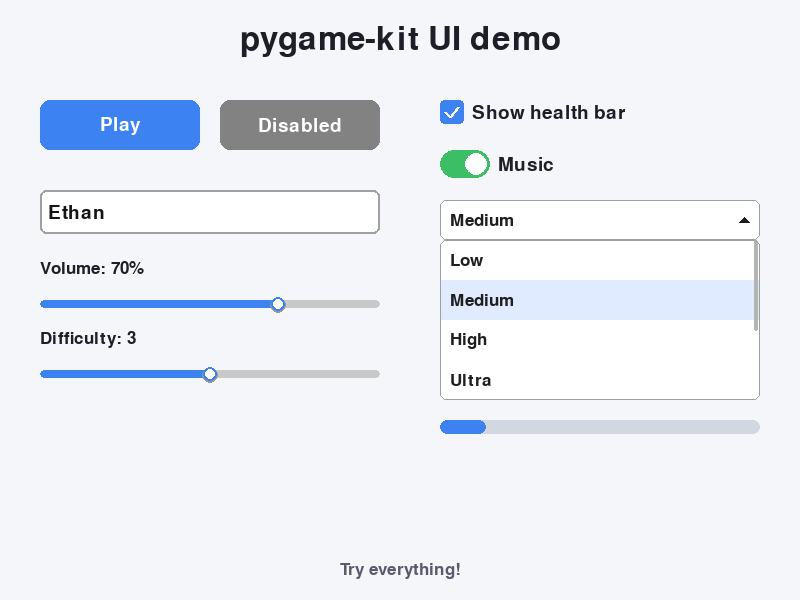
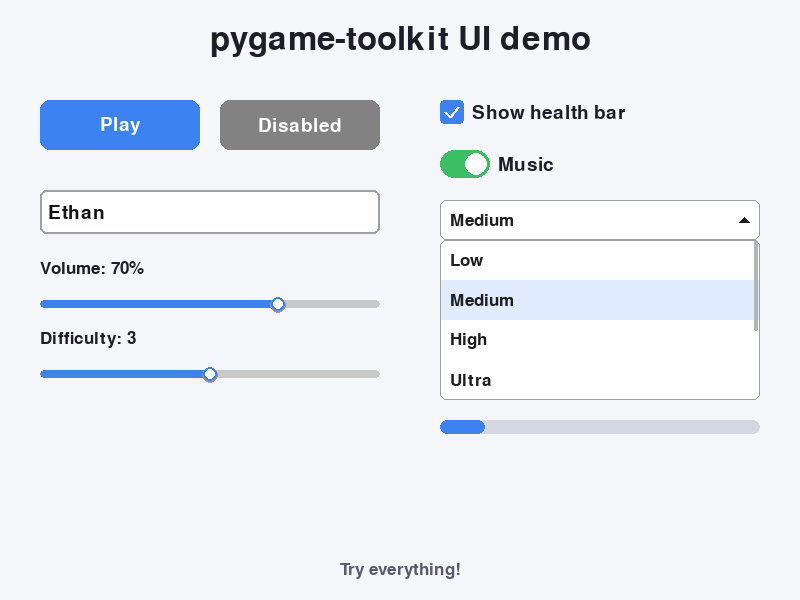
Rename project to pygame-toolkit
PyPI rejects "pygame-kit" as too similar to the existing PyGameKit
project, so the distribution, import package (pygame_toolkit), repo,
docs and workflows now use pygame-toolkit.

Changed region(s): [[0.25, 0.03, 0.75, 0.12]]

diff --git a/src/pygame_toolkit/ui/_base.py b/src/pygame_toolkit/ui/_base.py
@@ -1,4 +1,4 @@
-"""Shared building blocks for every pygame-kit UI widget.
+"""Shared building blocks for every pygame-toolkit UI widget.
 
 You normally don't use this module directly. It holds:
 
@@ -9,7 +9,7 @@ You normally don't use this module directly. It holds:
 
 If you want to make **your own** widget, subclass :class:`Widget`::
 
-    from pygame_kit.ui import Widget
+    from pygame_toolkit.ui import Widget
 
     class Star(Widget):
         def draw(self, surface):
@@ -86,7 +86,7 @@ def resolve_font(font: FontLike = None, size: int = 28) -> pygame.font.Font:
 class Widget:
     """Base class for all UI widgets: a rectangle that can react to events and draw itself.
 
-    Every widget in pygame-kit follows the same three-step pattern, so once you
+    Every widget in pygame-toolkit follows the same three-step pattern, so once you
     know one you know them all:
 
     1. ``handle_event(event)``: call for **every** event inside your

diff --git a/examples/platformer_demo.py b/examples/platformer_demo.py
@@ -16,12 +16,12 @@ import random
 
 import pygame
 
-import pygame_kit as pk
+import pygame_toolkit as pk
 
 pygame.init()
 W, H = 960, 540
 screen = pygame.display.set_mode((W, H))
-pygame.display.set_caption("pygame-kit platformer demo")
+pygame.display.set_caption("pygame-toolkit platformer demo")
 clock = pygame.time.Clock()
 
 
@@ -92,7 +92,7 @@ dash_trail = pk.ParticleEmitter(rate=90, emitting=False, colors=[(255, 255, 255)
                                 size=(5, 9), end_size=0, lifetime=0.25, fade=True)
 
 # ------------------------------------------------------------- UI + extras
-save = pk.SaveData("pygame-kit-platformer-demo", defaults={"best_coins": 0})
+save = pk.SaveData("pygame-toolkit-platformer-demo", defaults={"best_coins": 0})
 score = 0
 score_label = pk.Label((W - 20, 16), "", font_size=34, color="white", anchor="topright",
                        background=(0, 0, 0), padding=8, border_radius=8)

diff --git a/examples/ui_demo.py b/examples/ui_demo.py
@@ -1,22 +1,22 @@
-"""Every pygame-kit UI widget on one screen.
+"""Every pygame-toolkit UI widget on one screen.
 
 Run it with:  python examples/ui_demo.py
 """
 
 import pygame
 
-import pygame_kit as pk
+import pygame_toolkit as pk
 
 pygame.init()
 pygame.key.set_repeat(400, 35)  # hold Backspace/arrows to repeat in the text box
 screen = pygame.display.set_mode((800, 600))
-pygame.display.set_caption("pygame-kit UI demo")
+pygame.display.set_caption("pygame-toolkit UI demo")
 clock = pygame.time.Clock()
 
 BG = (245, 246, 250)
 DARK = (30, 30, 40)
 
-title = pk.Label((400, 40), "pygame-kit UI demo", font_size=48, color=DARK, anchor="center")
+title = pk.Label((400, 40), "pygame-toolkit UI demo", font_size=48, color=DARK, anchor="center")
 status = pk.Label((400, 570), "Try everything!", font_size=26, color=(90, 90, 110), anchor="center")
 
 

diff --git a/src/pygame_toolkit/debug.py b/src/pygame_toolkit/debug.py
@@ -160,7 +160,7 @@ class DebugOverlay:
         """The text lines the overlay shows. Handy if you want to print them instead.
 
         Args:
-            camera: Optional :class:`~pygame_kit.Camera` to also show the
+            camera: Optional :class:`~pygame_toolkit.Camera` to also show the
                 mouse's world position.
         """
         mx, my = pygame.mouse.get_pos()
@@ -181,7 +181,7 @@ class DebugOverlay:
 
         Args:
             surface: Where to draw, usually your screen.
-            camera: Optional :class:`~pygame_kit.Camera`. If given, hitboxes are
+            camera: Optional :class:`~pygame_toolkit.Camera`. If given, hitboxes are
                 moved by the camera and the mouse's world position is shown.
         """
         rects, self._rects = self._rects, []

diff --git a/src/pygame_toolkit/ui/button.py b/src/pygame_toolkit/ui/button.py
@@ -3,7 +3,7 @@
 Quick example::
 
     import pygame
-    import pygame_kit as pk
+    import pygame_toolkit as pk
 
     pygame.init()
     screen = pygame.display.set_mode((800, 600))
@@ -78,7 +78,7 @@ class Button(Widget):
         border_width: Outline thickness in pixels. 0 = no outline.
         border_color: Outline color.
         anchor: Which point of the button ``pos`` refers to, like
-            ``"center"``. See :class:`~pygame_kit.ui.Widget`.
+            ``"center"``. See :class:`~pygame_toolkit.ui.Widget`.
         on_click: A function with no arguments to call when clicked.
         visible: If False, the button is hidden and can't be clicked.
         enabled: If False, the button is grayed out and can't be clicked.

diff --git a/src/pygame_toolkit/particles.py b/src/pygame_toolkit/particles.py
@@ -284,7 +284,7 @@ class ParticleEmitter:
 
         Args:
             surface: Where to draw, usually your screen.
-            camera: Optional :class:`~pygame_kit.Camera`. If given, particles
+            camera: Optional :class:`~pygame_toolkit.Camera`. If given, particles
                 are treated as being in world coordinates and moved by the
                 camera.
         """

diff --git a/src/pygame_toolkit/timing.py b/src/pygame_toolkit/timing.py
@@ -128,7 +128,7 @@ class Timer:
     def progress(self) -> float:
         """How far along the countdown is, from 0.0 (just started) to 1.0 (finished).
 
-        Great for animations or feeding a :class:`~pygame_kit.ProgressBar`.
+        Great for animations or feeding a :class:`~pygame_toolkit.ProgressBar`.
         """
         if self.duration == 0:
             return 1.0

diff --git a/src/pygame_toolkit/__init__.py b/src/pygame_toolkit/__init__.py
@@ -1,8 +1,8 @@
-"""pygame-kit: handy, well-documented building blocks for pygame games.
+"""pygame-toolkit: handy, well-documented building blocks for pygame games.
 
 Import it once and everything is available::
 
-    import pygame_kit as pk
+    import pygame_toolkit as pk
 
     button = pk.Button((20, 20), size=(120, 40), text="Hi")
 

diff --git a/tests/test_graphics.py b/tests/test_graphics.py
@@ -3,7 +3,7 @@ import random
 import pygame
 import pytest
 
-from pygame_kit import Animation, AnimationSet, Camera, ParticleEmitter, Spritesheet
+from pygame_toolkit import Animation, AnimationSet, Camera, ParticleEmitter, Spritesheet
 
 
 def make_sheet(cols=4, rows=2, w=10, h=8, spacing=0, margin=0):

diff --git a/tests/test_extras.py b/tests/test_extras.py
@@ -3,7 +3,7 @@ import json
 import pygame
 import pytest
 
-from pygame_kit import Camera, DebugOverlay, SaveData, default_save_folder
+from pygame_toolkit import Camera, DebugOverlay, SaveData, default_save_folder
 
 
 # ----------------------------------------------------------------- SaveData

diff --git a/tests/test_widgets.py b/tests/test_widgets.py
@@ -2,7 +2,7 @@ import pygame
 import pytest
 
 from conftest import click, down, motion, up
-from pygame_kit import Checkbox, Dropdown, ProgressBar, Slider, TextInput, Toggle
+from pygame_toolkit import Checkbox, Dropdown, ProgressBar, Slider, TextInput, Toggle
 
 
 def key(k):

diff --git a/tests/test_regressions.py b/tests/test_regressions.py
@@ -6,7 +6,7 @@ import pygame
 import pytest
 
 from conftest import click, down, motion, up
-from pygame_kit import (
+from pygame_toolkit import (
     Button, Camera, Checkbox, Dropdown, ParticleEmitter, Slider, TextInput, Toggle, resolve_font,
 )
 
